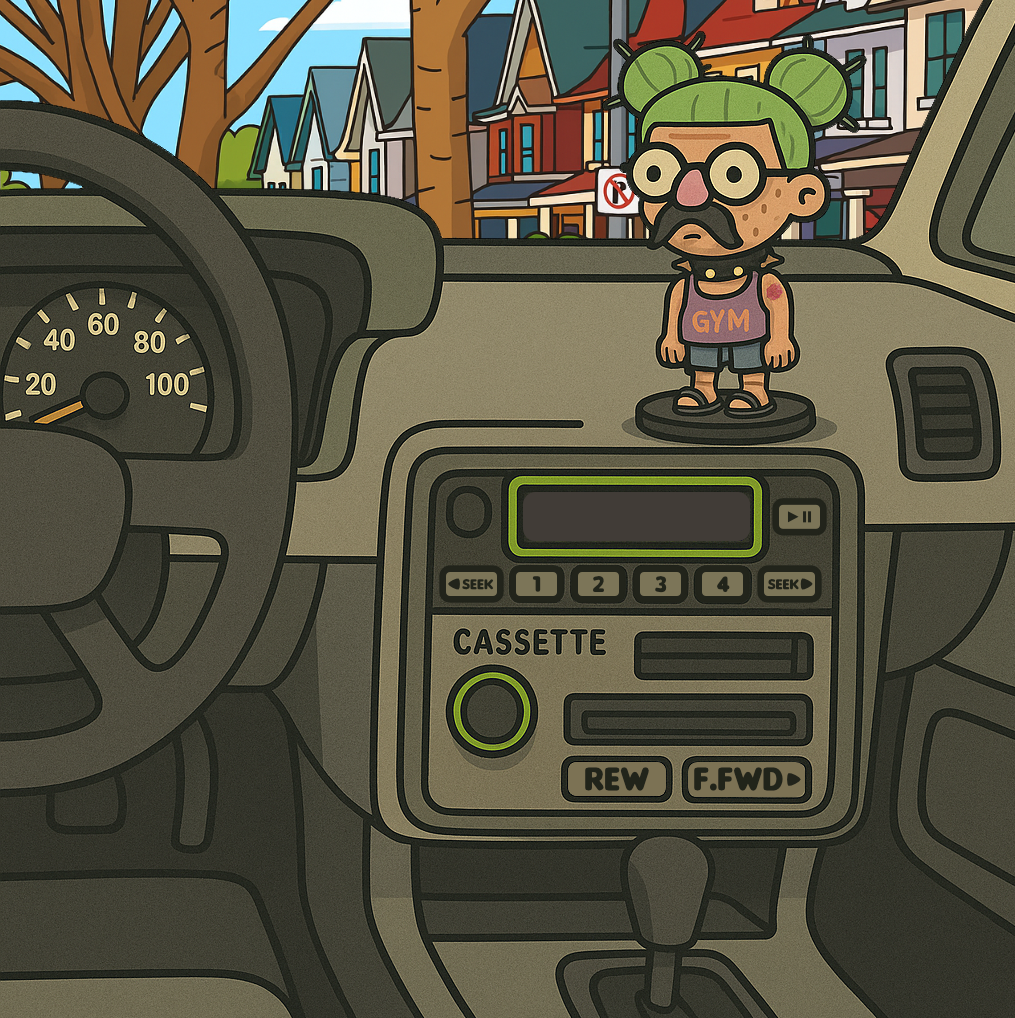
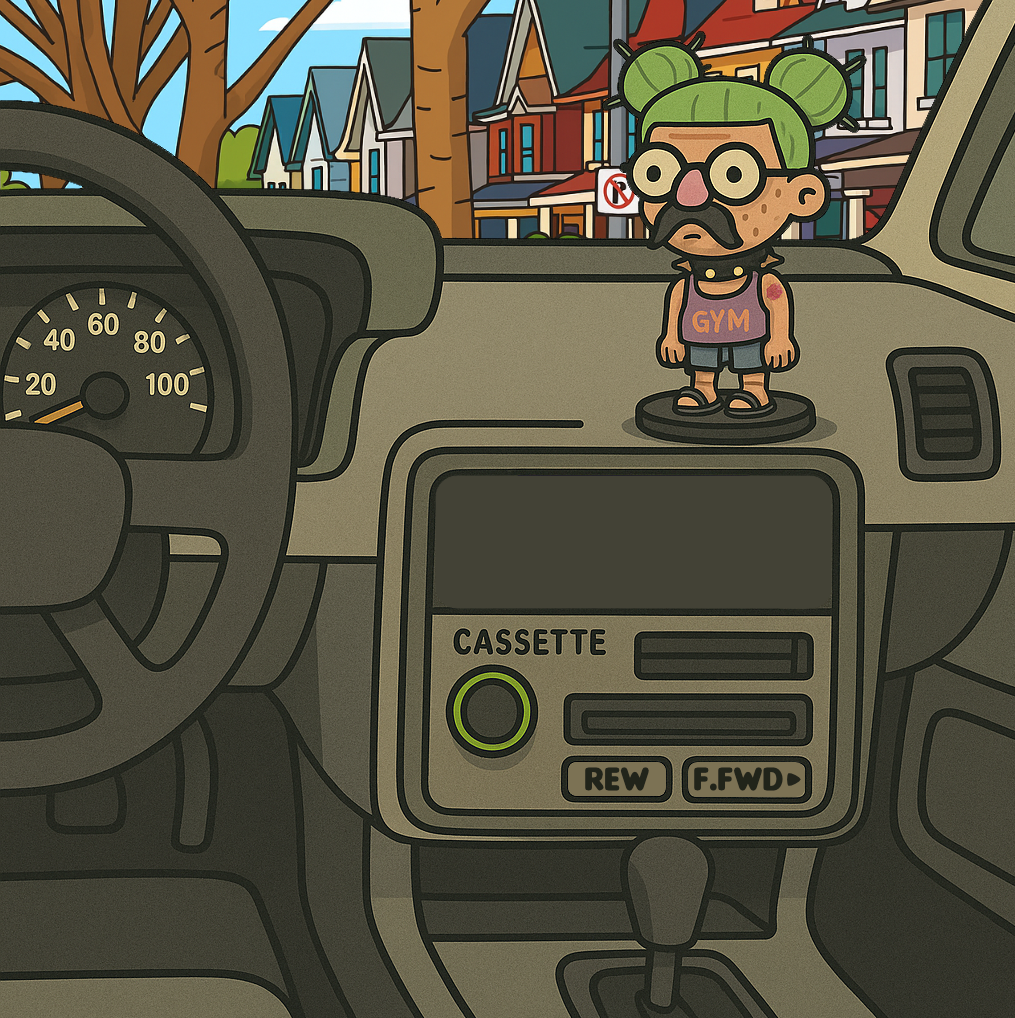
update images

Changed region(s): [[0.4276, 0.4568, 0.8246, 0.609]]

diff --git a/src/components/RadioPlayer.tsx b/src/components/RadioPlayer.tsx
@@ -121,11 +121,11 @@ const RadioPlayer = () => {
           alt="Radio Display Faceplate"
           style={{
             position: 'absolute',
-            top: 'calc(180px * var(--scale))',
-            left: '50%',
+            top: 'calc(220px * var(--scale))',
+            left: 'calc(50% + 30px)',
             transform: 'translate(-50%, -50%)',
-            width: 'calc(180px * var(--scale))',
-            height: 'calc(45px * var(--scale))',
+            width: 'calc(120px * var(--scale))',
+            height: 'calc(30px * var(--scale))',
             pointerEvents: 'none'
           }}
         />
@@ -133,11 +133,11 @@ const RadioPlayer = () => {
         {/* Station Display - System Font */}
         <div style={{
           position: 'absolute',
-          top: 'calc(180px * var(--scale))',
-          left: '50%',
+          top: 'calc(220px * var(--scale))',
+          left: 'calc(50% + 30px)',
           transform: 'translate(-50%, -50%)',
           color: '#00ff00', // Green LCD-style text
-          fontSize: 'calc(16px * var(--scale))',
+          fontSize: 'calc(11px * var(--scale))',
           fontFamily: 'monospace',
           fontWeight: 'bold',
           textAlign: 'center',
@@ -155,10 +155,10 @@ const RadioPlayer = () => {
           onClick={seekBack}
           style={{
             position: 'absolute',
-            top: 'calc(260px * var(--scale))',
-            left: 'calc(245px * var(--scale))',
-            width: 'calc(25px * var(--scale))',
-            height: 'calc(20px * var(--scale))',
+            top: 'calc(240px * var(--scale))',
+            left: 'calc(310px * var(--scale))',
+            width: 'calc(22px * var(--scale))',
+            height: 'calc(18px * var(--scale))',
             cursor: 'pointer',
             opacity: 0.8,
             transition: 'opacity 0.2s, transform 0.1s'
@@ -176,10 +176,10 @@ const RadioPlayer = () => {
           onClick={() => selectStation(0)}
           style={{
             position: 'absolute',
-            top: 'calc(260px * var(--scale))',
-            left: 'calc(285px * var(--scale))',
-            width: 'calc(20px * var(--scale))',
-            height: 'calc(20px * var(--scale))',
+            top: 'calc(240px * var(--scale))',
+            left: 'calc(340px * var(--scale))',
+            width: 'calc(18px * var(--scale))',
+            height: 'calc(18px * var(--scale))',
             cursor: 'pointer',
             opacity: trackIndex === 0 ? 1 : 0.7,
             transition: 'opacity 0.2s, transform 0.1s',
@@ -196,10 +196,10 @@ const RadioPlayer = () => {
           onClick={() => selectStation(1)}
           style={{
             position: 'absolute',
-            top: 'calc(260px * var(--scale))',
-            left: 'calc(315px * var(--scale))',
-            width: 'calc(20px * var(--scale))',
-            height: 'calc(20px * var(--scale))',
+            top: 'calc(240px * var(--scale))',
+            left: 'calc(365px * var(--scale))',
+            width: 'calc(18px * var(--scale))',
+            height: 'calc(18px * var(--scale))',
             cursor: 'pointer',
             opacity: trackIndex === 1 ? 1 : 0.7,
             transition: 'opacity 0.2s, transform 0.1s',
@@ -216,10 +216,10 @@ const RadioPlayer = () => {
           onClick={() => selectStation(2)}
           style={{
             position: 'absolute',
-            top: 'calc(260px * var(--scale))',
-            left: 'calc(345px * var(--scale))',
-            width: 'calc(20px * var(--scale))',
-            height: 'calc(20px * var(--scale))',
+            top: 'calc(240px * var(--scale))',
+            left: 'calc(390px * var(--scale))',
+            width: 'calc(18px * var(--scale))',
+            height: 'calc(18px * var(--scale))',
             cursor: 'pointer',
             opacity: trackIndex === 2 ? 1 : 0.7,
             transition: 'opacity 0.2s, transform 0.1s',
@@ -236,10 +236,10 @@ const RadioPlayer = () => {
           onClick={() => selectStation(3)}
           style={{
             position: 'absolute',
-            top: 'calc(260px * var(--scale))',
-            left: 'calc(375px * var(--scale))',
-            width: 'calc(20px * var(--scale))',
-            height: 'calc(20px * var(--scale))',
+            top: 'calc(240px * var(--scale))',
+            left: 'calc(415px * var(--scale))',
+            width: 'calc(18px * var(--scale))',
+            height: 'calc(18px * var(--scale))',
             cursor: 'pointer',
             opacity: trackIndex === 3 ? 1 : 0.7,
             transition: 'opacity 0.2s, transform 0.1s',
@@ -256,10 +256,10 @@ const RadioPlayer = () => {
           onClick={seekForward}
           style={{
             position: 'absolute',
-            top: 'calc(260px * var(--scale))',
-            left: 'calc(410px * var(--scale))',
-            width: 'calc(25px * var(--scale))',
-            height: 'calc(20px * var(--scale))',
+            top: 'calc(240px * var(--scale))',
+            left: 'calc(446px * var(--scale))',
+            width: 'calc(22px * var(--scale))',
+            height: 'calc(18px * var(--scale))',
             cursor: 'pointer',
             opacity: 0.8,
             transition: 'opacity 0.2s, transform 0.1s'
@@ -270,22 +270,26 @@ const RadioPlayer = () => {
           onMouseUp={(e) => e.currentTarget.style.transform = 'scale(1)'}
         />
 
-        {/* Play/Pause Button Overlay - positioned over cassette play button */}
+        {/* Play/Pause Button Overlay - positioned above seek forward button */}
         <img 
-          src={isPlaying ? "/images/pause-button.png" : "/images/play-button.png"}
+          src="/images/play-button.png"
           alt={isPlaying ? "Pause" : "Play"}
           onClick={togglePlay}
           style={{
             position: 'absolute',
-            top: 'calc(330px * var(--scale))',
-            left: 'calc(285px * var(--scale))',
-            width: 'calc(30px * var(--scale))',
-            height: 'calc(25px * var(--scale))',
+            top: 'calc(210px * var(--scale))',
+            left: 'calc(450px * var(--scale))',
+            width: 'calc(25px * var(--scale))',
+            height: 'calc(22px * var(--scale))',
             cursor: 'pointer',
-            transition: 'transform 0.1s',
+            transition: 'transform 0.1s, opacity 0.2s',
+            opacity: isPlaying ? 0.9 : 0.7,
+            transform: isPlaying ? 'scale(1.1)' : 'scale(1)',
           }}
-          onMouseDown={(e) => e.currentTarget.style.transform = 'scale(0.95)'}
-          onMouseUp={(e) => e.currentTarget.style.transform = 'scale(1)'}
+          onMouseDown={(e) => e.currentTarget.style.transform = isPlaying ? 'scale(1.05)' : 'scale(0.95)'}
+          onMouseUp={(e) => e.currentTarget.style.transform = isPlaying ? 'scale(1.1)' : 'scale(1)'}
+          onMouseEnter={(e) => e.currentTarget.style.opacity = '1'}
+          onMouseLeave={(e) => e.currentTarget.style.opacity = isPlaying ? '0.9' : '0.7'}
         />
 
         {/* Volume Slider */}
